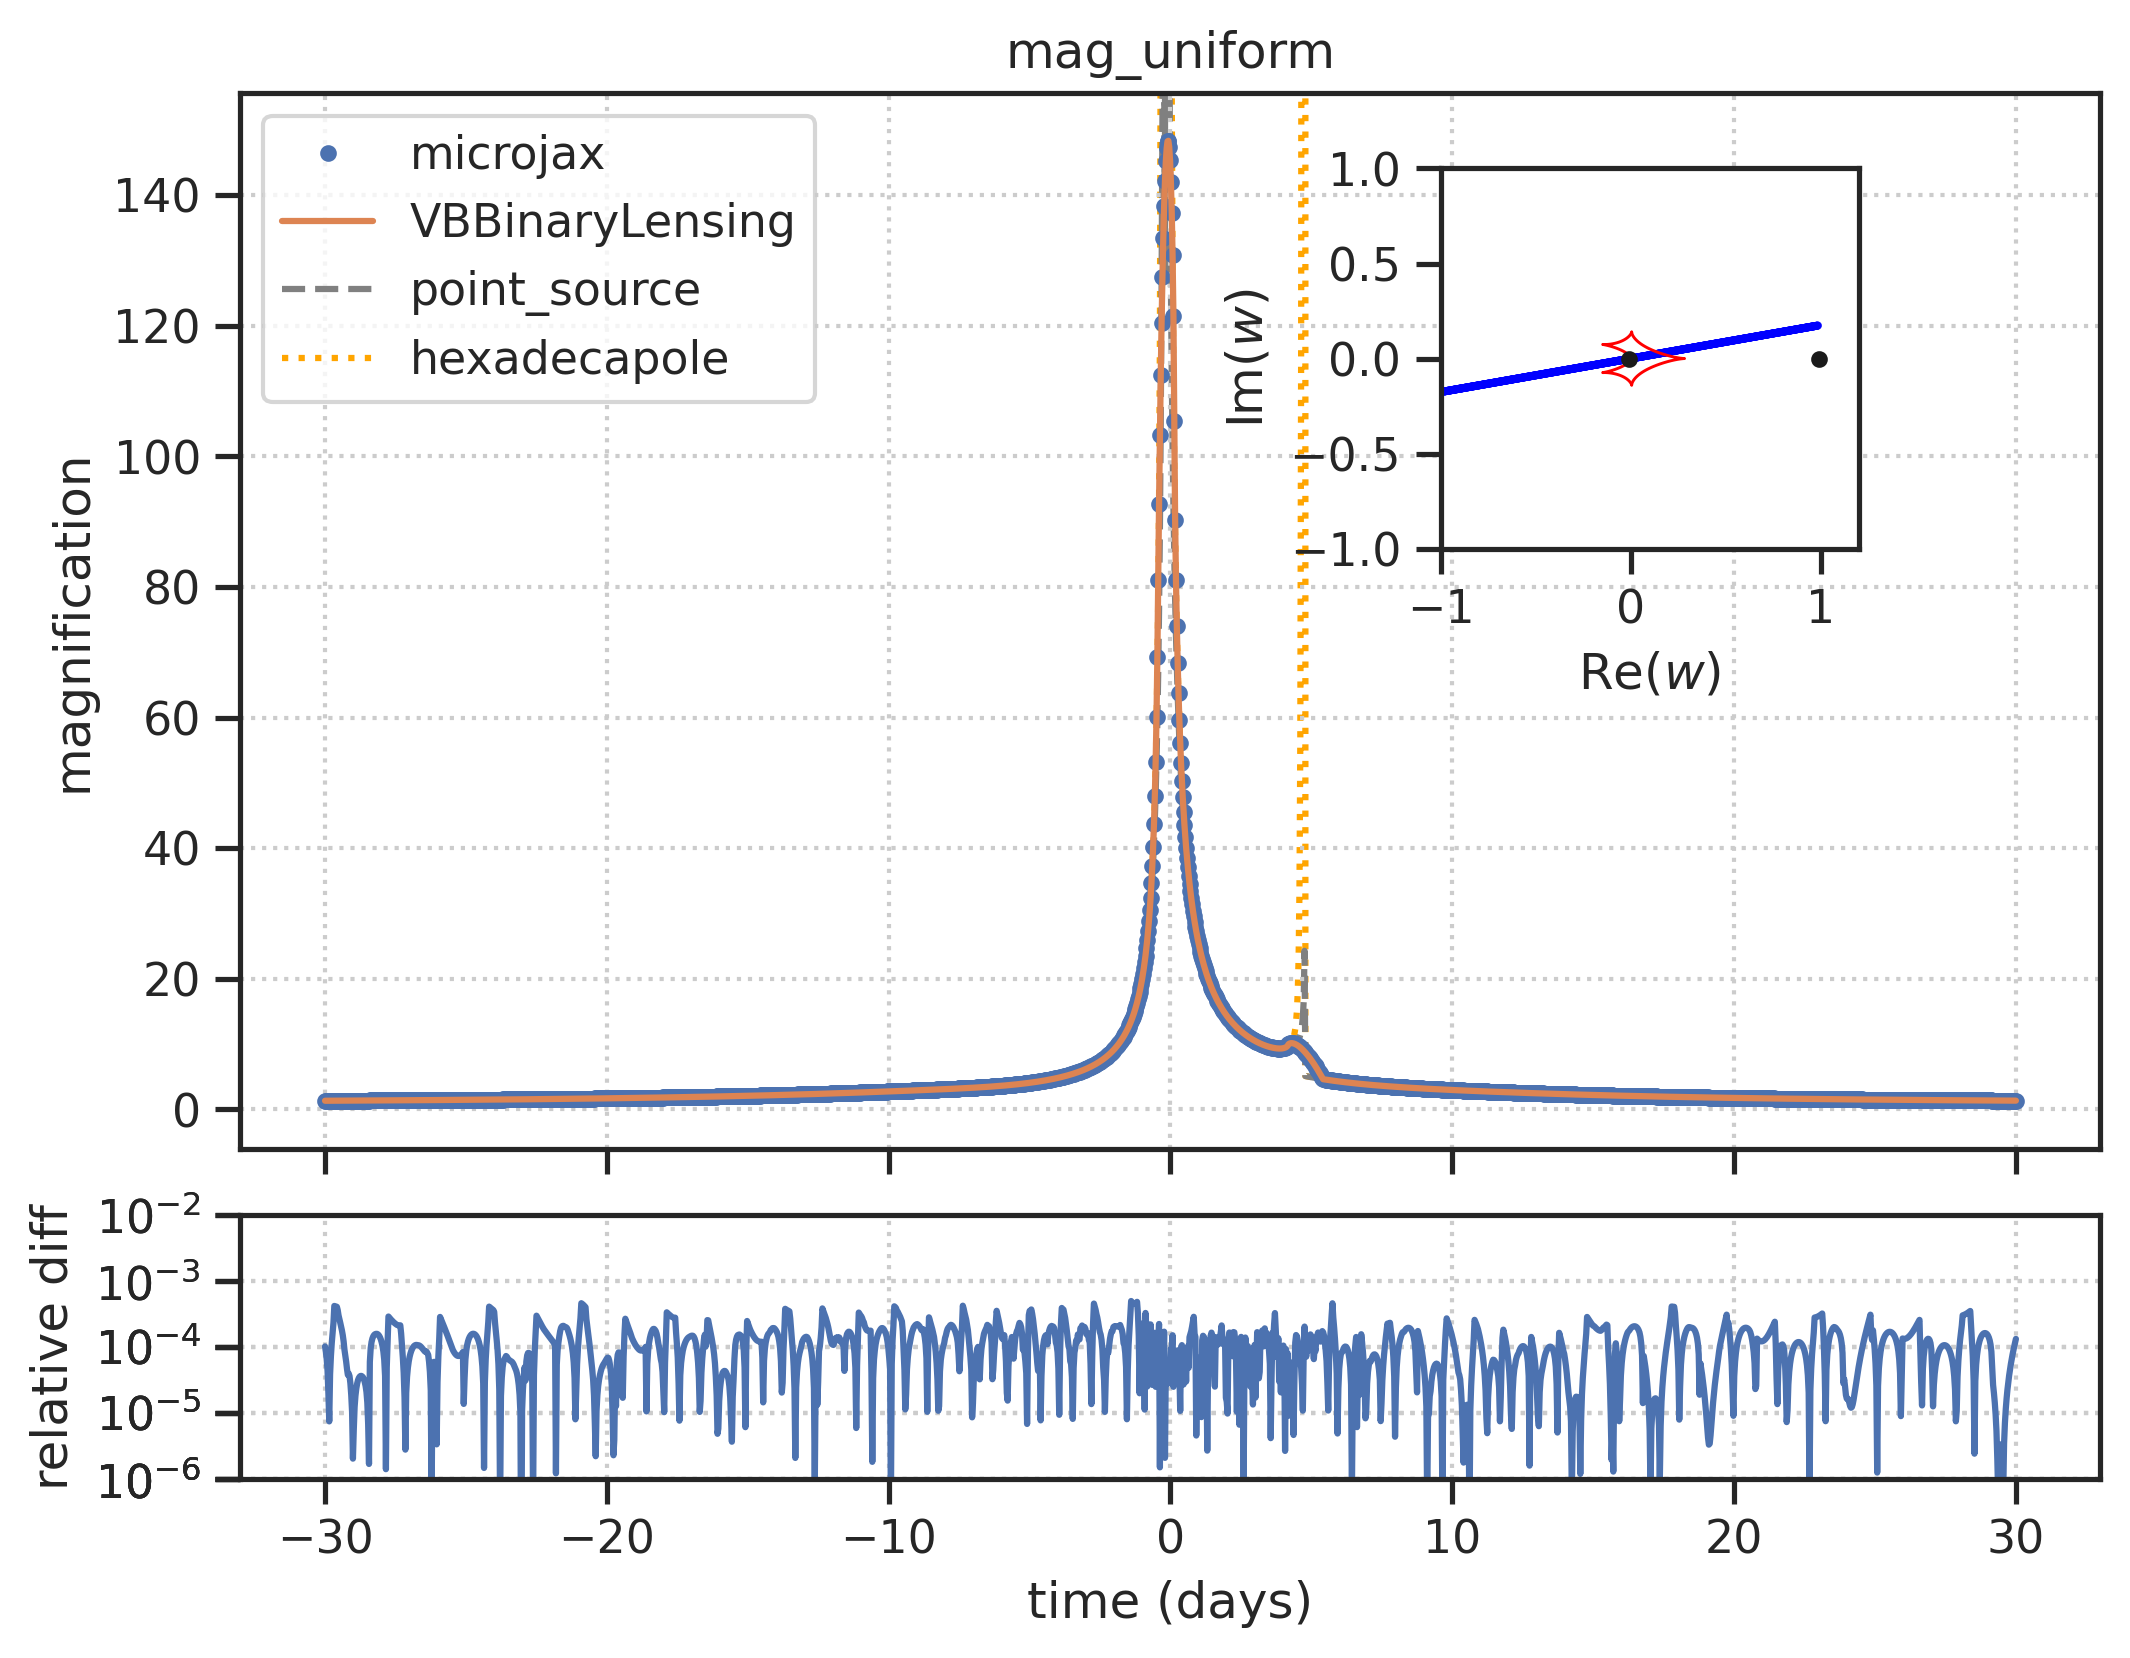
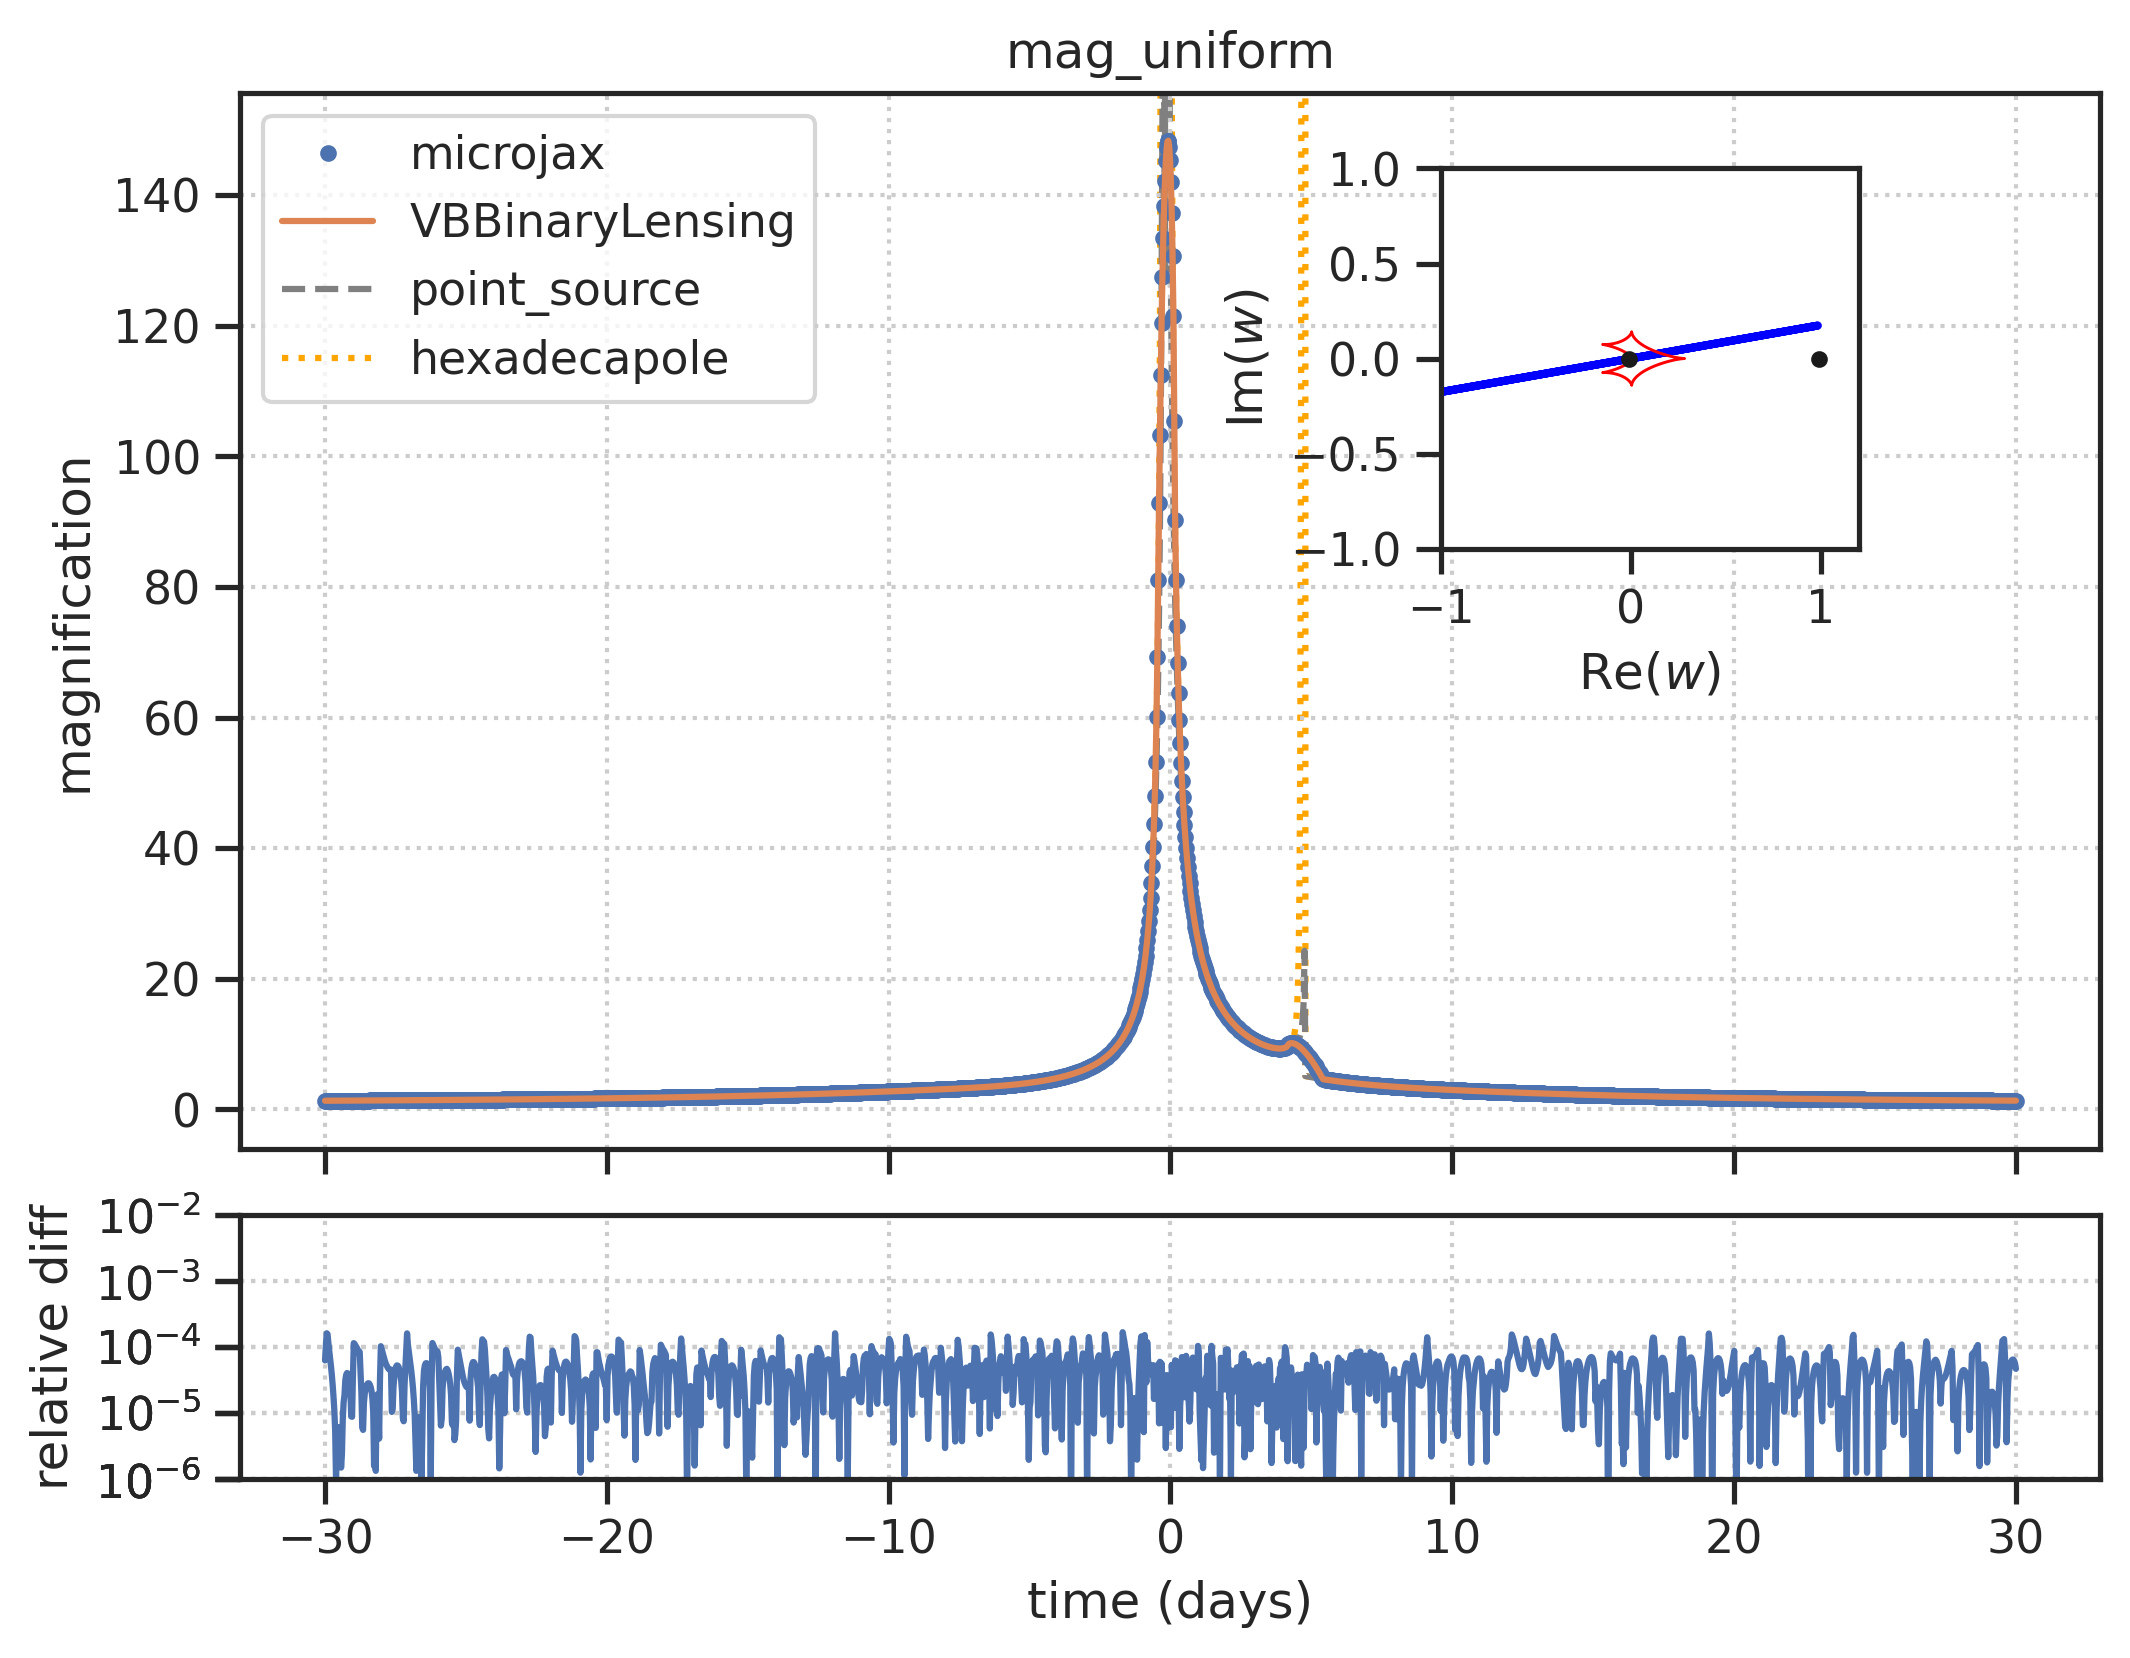
.github/workflows/main.yml changed

Changed region(s): [[0.1549, 0.769, 0.9606, 0.892]]

diff --git a/src/microjax/inverse_ray/extended_source.py b/src/microjax/inverse_ray/extended_source.py
@@ -153,7 +153,7 @@ def mag_uniform(w_center, rho, nlenses=2, r_resolution=500, th_resolution=500,
     #r_scan = lax.stop_gradient(r_scan)
     #th_scan = lax.stop_gradient(th_scan)
     inputs = (r_scan, th_scan)
-    if(1):
+    if(0): 
         def scan_images(carry, inputs):
             r_range, th_range = inputs
             total_area = _compute_for_range(r_range, th_range, cubic)
@@ -161,7 +161,7 @@ def mag_uniform(w_center, rho, nlenses=2, r_resolution=500, th_resolution=500,
             return carry + total_area, None
         magnification_unnorm, _ = lax.scan(scan_images, 0.0, inputs, unroll=1)
     
-    if(0): # vmap case. subtle improvement in speed but worse in memory.
+    if(1): # vmap case. subtle improvement in speed but worse in memory. More careful for chunking size.
         total_areas = vmap(_compute_for_range, in_axes=(0, 0, None))(r_scan, th_scan, cubic)
         magnification_unnorm = jnp.sum(total_areas)
     
@@ -213,8 +213,8 @@ if __name__ == "__main__":
     test_params = {"q": q, "s": s}  # Lens parameters
 
     Nlimb = 500
-    r_resolution  = 500
-    th_resolution = 500
+    r_resolution  = 1000
+    th_resolution = 1000
     cubic = True
 
     bins_r = 50
@@ -231,7 +231,7 @@ if __name__ == "__main__":
         bl = mm.BinaryLens(e1, e2, 2*a)
         return bl.vbbl_magnification(w0.real, w0.imag, rho, accuracy=accuracy, u_limb_darkening=u1)
     #magn  = lambda w: mag_uniform(w, rho, r_resolution=2000, th_resolution=1000, **test_params, cubic=True)
-    @jax.jit
+    @jit
     def mag_mj(w):
         return mag_uniform(w, rho, s=s, q=q, Nlimb=Nlimb, bins_r=bins_r, bins_th=bins_th,
                            r_resolution=r_resolution, th_resolution=th_resolution, 
@@ -282,7 +282,7 @@ if __name__ == "__main__":
     print("computation time: %.3f sec (%.3f ms per points) for VBBinaryLensing"%(end - start,1000*(end - start)/num_points))
 
 
-    chunk_size = 1000  # メモリ消費を調整するため適宜変更
+    chunk_size = 500  # メモリ消費を調整するため適宜変更
     _ = chunked_vmap(mag_mj, w_points, chunk_size).block_until_ready()
     print("start computation with vmap")
     start = time.time()
